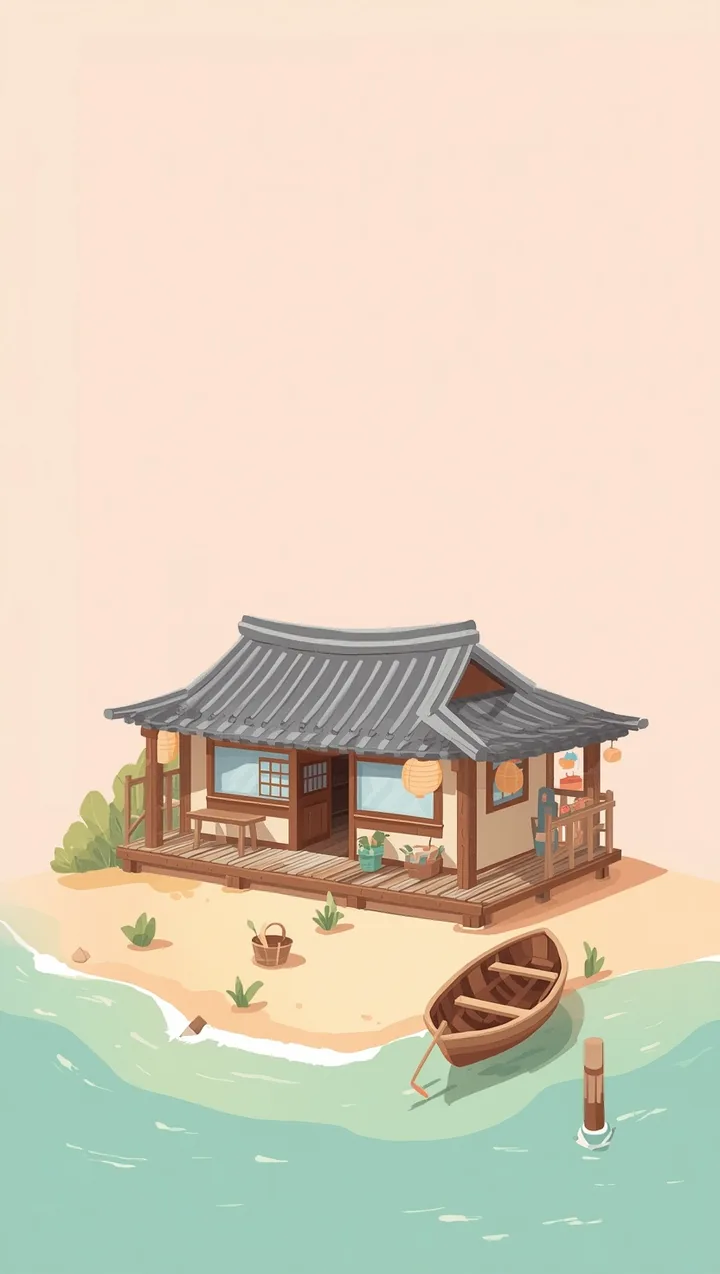
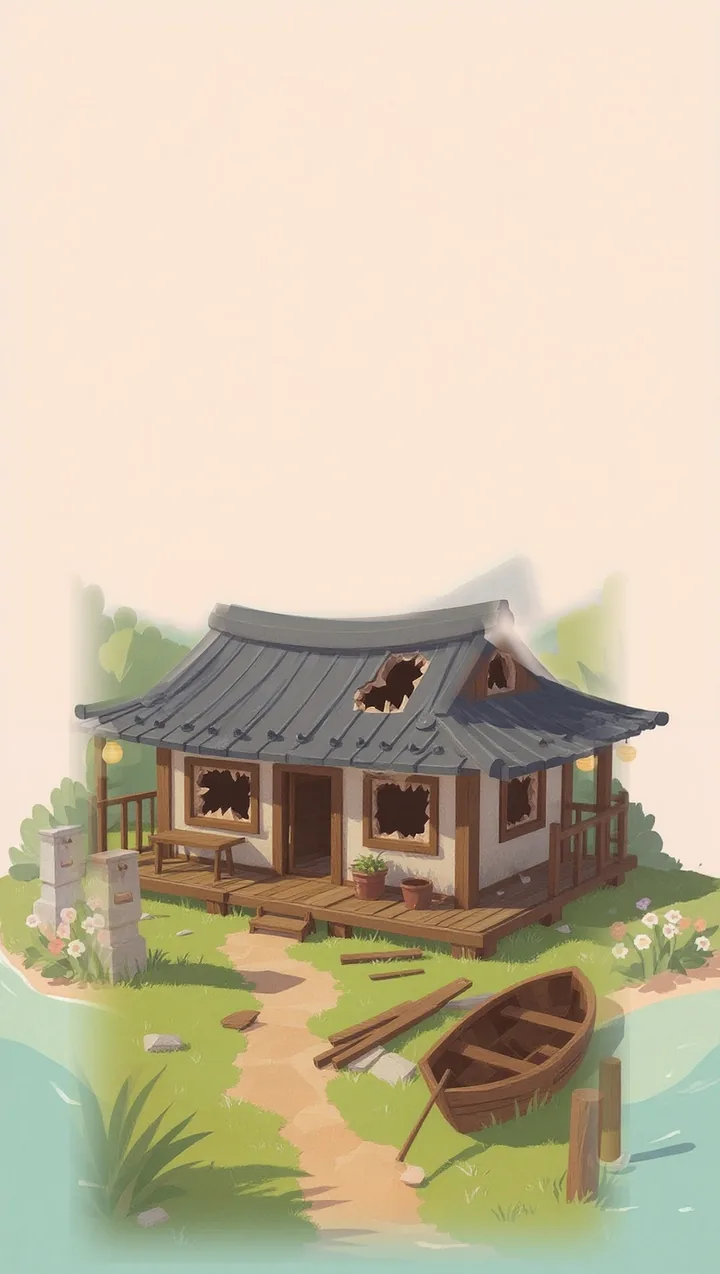
머지관: 지역 '고치기 전' 그림을 부서진 모습으로, 5·6지역 '고친 후' 보강, 점토 아이콘

diff --git a/static/js/merge/data.js b/static/js/merge/data.js
@@ -165,11 +165,11 @@
       tasks: [
         { id: 'r5_clean', name: '모래사장 청소하기', cost: 6, x: 40, y: 90, r: 22 },
         { id: 'r5_hut', name: '초가 쉼터 고치기', cost: 7, x: 28, y: 72, r: 19, scene: 'r5_hut' },
-        { id: 'r5_stage', name: '놀이마당 무대 놓기', cost: 9, x: 70, y: 64, r: 18 },
-        { id: 'r5_cloth', name: '오색 천 줄 걸기', cost: 9, x: 77, y: 54, r: 17, scene: 'r5_cloth' },
+        { id: 'r5_stage', name: '놀이마당 무대 놓기', cost: 9, x: 70, y: 58, r: 18 },
+        { id: 'r5_cloth', name: '오색 천 줄 걸기', cost: 9, x: 74, y: 46, r: 17, scene: 'r5_cloth' },
         { id: 'r5_swing', name: '그네·널뛰기터 만들기', cost: 10, x: 26, y: 48, r: 18 },
-        { id: 'r5_cart', name: '장터 수레 꾸미기', cost: 10, x: 86, y: 84, r: 17 },
-        { id: 'r5_arch', name: '등불 아치 세우기', cost: 12, x: 69, y: 79, r: 18, req: 'so_r5' }
+        { id: 'r5_cart', name: '장터 수레 꾸미기', cost: 10, x: 80, y: 79, r: 17 },
+        { id: 'r5_arch', name: '등불 아치 세우기', cost: 12, x: 12, y: 52, r: 18, req: 'so_r5' }
       ],
       open: { scene: 'r5_open', gens: ['gen_h'], chains: ['h'] },
       done: { scene: 'r5_done', uncover: true },

diff --git a/tools/merge_art.py b/tools/merge_art.py
@@ -59,7 +59,7 @@ ART = [
     ("ui", "energy", "p1/ui_energy.jpg", "cut"),
     # 인물 · 배경 (picks.json: 하윤 = 글자 지운 원본, 1지역 '전' = v2b)
     ("chars", "hayun", "char_hayun_base_clean.jpg", "portrait"),
-    ("bg", "r1_before", "bg_r1_before_v2b.jpg", "bg"),
+    ("bg", "r1_before", "p2/bg/bg_r1_before.jpg", "bg"),  # 4차: '후'를 부서뜨린 그림 (이전 = bg_r1_before_v2b.jpg)
     # ---- 2묶음 (p2/) · 원본이 아직 없으면 건너뛰어요 (화면은 색 동그라미로 대신) ----
     ("chars", "hayun_joy", "p2/char/char_hayun_joy.jpg", "portrait"),
     ("chars", "hayun_wow", "p2/char/char_hayun_surprised.jpg", "portrait"),
